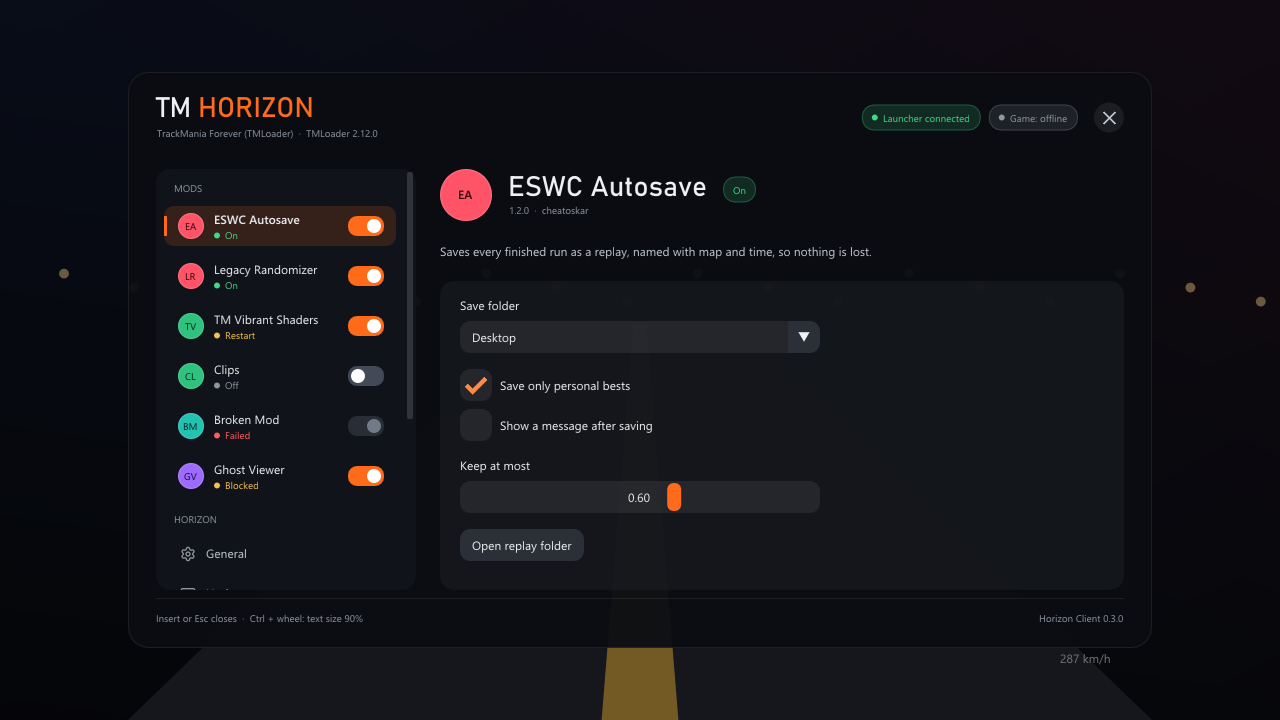
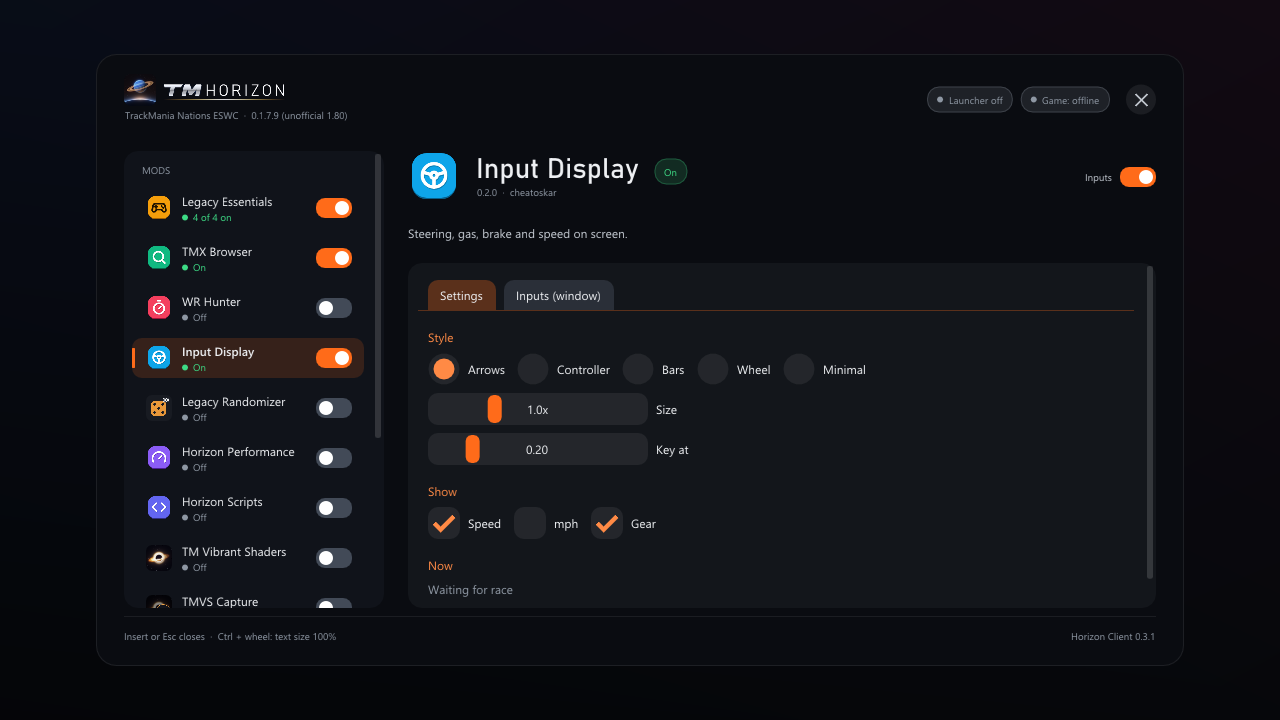
README: screenshots of 0.3.1
Replace the 0.3.0 menu renders (placeholder mods, letter icons) with renders of the real 0.3.1 module list
on a new ESWC install, with the module icons, and add the Input Display styles. client_preview gets a
--readme option that renders exactly these images (tests unchanged by default).

Claude-Session: https://claude.ai/code/session_01KM4cBWQ7dw4ib256DxFodT

diff --git a/plugins/client-common/tests/client_preview.cpp b/plugins/client-common/tests/client_preview.cpp
@@ -6,7 +6,9 @@
 // Also the modules in their own window (top bar, left click on the icon) with the top bar shown, at 640x480 and
 // 1920x1080: screens\client-popout-<tag>-<module>-<size>.png (<tag> = second argument, default "now").
 //
-//   client_preview.exe <build\plugins folder> [tag]
+//   client_preview.exe <build\plugins folder> [tag] [--readme]
+// --readme: only the README images (new ESWC install, real module list and icons): screens\client-readme-menu-*.png and
+// screens\client-input-display.png. The Legacy Randomizer and TMVS icons are read from build\readme-icons\<id>.png.
 #include <windows.h>
 
 #include <d3d9.h>
@@ -626,6 +628,132 @@ void tmxBrowser(const std::string& dir) {
     p.shutdown();
 }
 
+// ---------------------------------------------------------------- README images
+
+// A PNG file as a texture (WIC decode), 0 when it cannot be read.
+uint64_t pngTexture(const std::string& path, float* aspect = nullptr) {
+    const std::wstring w(path.begin(), path.end());
+    IWICImagingFactory* fac = nullptr;
+    if (FAILED(CoCreateInstance(CLSID_WICImagingFactory, nullptr, CLSCTX_INPROC_SERVER, IID_PPV_ARGS(&fac)))) return 0;
+    IWICBitmapDecoder* dec = nullptr;
+    IWICBitmapFrameDecode* frame = nullptr;
+    IWICFormatConverter* conv = nullptr;
+    uint64_t tex = 0;
+    if (SUCCEEDED(fac->CreateDecoderFromFilename(w.c_str(), nullptr, GENERIC_READ, WICDecodeMetadataCacheOnLoad, &dec)) &&
+        SUCCEEDED(dec->GetFrame(0, &frame)) && SUCCEEDED(fac->CreateFormatConverter(&conv)) &&
+        SUCCEEDED(conv->Initialize(frame, GUID_WICPixelFormat32bppRGBA, WICBitmapDitherTypeNone, nullptr, 0.0, WICBitmapPaletteTypeCustom))) {
+        UINT iw = 0, ih = 0;
+        conv->GetSize(&iw, &ih);
+        std::vector<BYTE> px(static_cast<size_t>(iw) * ih * 4);
+        if (SUCCEEDED(conv->CopyPixels(nullptr, iw * 4, static_cast<UINT>(px.size()), px.data()))) {
+            tex = createTexture(nullptr, iw, ih, px.data());
+            if (aspect && ih) *aspect = static_cast<float>(iw) / static_cast<float>(ih);
+        }
+    }
+    if (conv) conv->Release();
+    if (frame) frame->Release();
+    if (dec) dec->Release();
+    fac->Release();
+    if (!tex) std::printf("icon not loaded: %s\n", path.c_str());
+    return tex;
+}
+
+// The module list as a new ESWC install shows it (0.3.1): the real modules with their plugin.json names and
+// versions and their icon.png, the defaults from packaging\modules.json (Legacy Essentials and TMX Browser on,
+// the rest off). The Legacy Randomizer and the TM Vibrant Shaders modules are separate downloads: their icons
+// are copied to build\readme-icons\<id>.png before the run, their names and versions are those of their releases
+// (Legacy Randomizer 0.2.0, TMVS modules 2.0.0; TMVS Packs is Forever only and not listed on ESWC).
+Model readmeModel() {
+    Model m = baseModel("TrackMania Nations ESWC");
+    m.hostVersion = "0.3.1";
+    m.exeVersion = "0.1.7.9 (unofficial 1.80)";
+    m.gameState = "Main menu";
+    m.bridgePaired = false;
+    m.bridgeText = "";
+    m.onlineFix = 1;
+    m.menuKeySuggestions = {"Insert", "F2", "#", "+", "Ctrl+Tab"};
+    auto mod = [&](const char* id, const char* name, const char* ver, const char* desc, bool on, bool menu) {
+        PluginView p = view(id, name, desc);
+        p.version = ver;
+        p.enabled = on;
+        p.status = on ? PluginStatus::On : PluginStatus::Off;
+        p.hasMenu = menu;
+        return p;
+    };
+    // the group's members (hidden in the list, shown as the group's tabs)
+    m.plugins.push_back(mod("eswc-autosave", "Autosave & Login-Fix", "2.1.0", "Saves your replay after each finish.", true, true));
+    m.plugins.push_back(mod("controller-hotplug", "Controller fix", "1.2.1", "Adds controllers plugged in while the game runs.", true, true));
+    m.plugins.push_back(mod("game-settings", "Game settings", "1.1.1", "Volume, music and window mode from the menu.", true, true));
+    GroupView g;
+    g.id = "legacy-essentials";
+    g.name = "Legacy Essentials";
+    g.description = "Autosave, controller fix, login fix and game settings for ESWC, Sunrise and Original.";
+    g.enabled = true;
+    auto feat = [&](const char* pluginId, const char* host, const char* label) {
+        GroupFeatureView f;
+        f.pluginId = pluginId;
+        f.hostFeature = host;
+        f.label = label;
+        f.enabled = true;
+        g.features.push_back(f);
+    };
+    feat("eswc-autosave", "", "Autosave");
+    feat("controller-hotplug", "", "Controller fix");
+    feat("", "login-fix", "Login fix");
+    feat("game-settings", "", "Game settings");
+    m.groups.push_back(g);
+    m.plugins.push_back(mod("tmx-browser", "TMX Browser", "0.2.2", "Search TMX and play maps in the game.", true, true));
+    m.plugins.push_back(mod("wr-hunter", "WR Hunter", "0.1.2", "Splits against your PB and the TMX record.", false, true));
+    PluginView inp = mod("input-display", "Input Display", "0.2.0", "Steering, gas, brake and speed on screen.", true, true);
+    inp.panels = {tab("inputs", "Inputs", true)};
+    inp.panels[0].hud = true;
+    inp.panels[0].onScreen = true;
+    m.plugins.push_back(inp);
+    m.plugins.push_back(mod("legacy-randomizer", "Legacy Randomizer", "0.2.0", "Random Map Challenge in game", false, true));
+    m.plugins.push_back(mod("performance", "Horizon Performance", "0.1.0", "Frame times, benchmark and frame limiter.", false, true));
+    m.plugins.push_back(mod("scripts", "Horizon Scripts", "0.2.1", "Runs scripts from horizon\\scripts.", false, true));
+    m.plugins.push_back(mod("tmvs", "TM Vibrant Shaders", "2.0.0", "Light, shadows, sky, weather and colour, with presets per map type.", false, true));
+    m.plugins.push_back(mod("tmvs-capture", "TMVS Capture", "2.0.0", "Photos, instant clips of your runs and checkpoints, and the video export.", false, true));
+    m.plugins.push_back(mod("tmvs-upscaling", "TMVS Upscaling", "2.0.0", "Renders the game at a lower resolution and scales it back up with AMD FSR 1.", false, true));
+    return m;
+}
+
+void readmeIcons() {
+    float aspect = 1.0f;
+    const uint64_t wordmark = pngTexture("assets\\wordmark.png", &aspect);
+    setLogo(wordmark, aspect, pngTexture("assets\\mark.png"));
+    setIcon("group:legacy-essentials", pngTexture("packaging\\icons\\legacy-essentials.png"));
+    for (const char* id : {"tmx-browser", "wr-hunter", "input-display", "performance", "scripts"})
+        setIcon(id, pngTexture(std::string("plugins\\") + id + "\\icon.png"));
+    for (const char* id : {"legacy-randomizer", "tmvs", "tmvs-capture", "tmvs-upscaling"})
+        setIcon(id, pngTexture(std::string("build\\readme-icons\\") + id + ".png"));
+}
+
+// docs\images\menu-1280x720.png (Input Display page) and menu-640x480.png (the module list), ESWC, new install.
+void readme(const std::string& dir) {
+    Plugin p = load(dir, "input-display");
+    if (!p.mod || !p.hook) return;
+    startHost(HORIZON_GAME_ESWC, "input-display");
+    chost::buildWorld(false, "UidOfTheTestMap000000000aB", L"Test");
+    chost::gameState = HORIZON_STATE_MAIN_MENU;
+    const HorizonHostApi api = hostApi();
+    if (p.init(&api) != 0) {
+        ++g_failed;
+        return;
+    }
+    readmeIcons();
+    Actions a = actionsFor(p);
+    a.setGroupEnabled = [](const std::string&, bool) {};
+    const Model m = readmeModel();
+    const int menuPct = m.menuSizePct;
+    setDisplay(1280, 720, fitScale(1.0f, 1280.0f, 720.0f, menuPct));
+    menuShot("readme-menu-1280x720", m, a, "plugin:input-display", 20, nullptr);
+    setDisplay(640, 480, fitScale(1.0f, 640.0f, 480.0f, menuPct));
+    menuShot("readme-menu-640x480", m, a, "mods", 20, nullptr);
+    setDisplay(kWidth, kHeight, 1.0f);
+    p.shutdown();
+}
+
 // ---------------------------------------------------------------- toasts and the General page
 
 void toasts() {
@@ -671,6 +799,7 @@ int main(int argc, char** argv) {
     }
     const std::string dir = argv[1];
     if (argc > 2) g_tag = argv[2];
+    const bool readmeMode = argc > 3 && std::strcmp(argv[3], "--readme") == 0; // only the README images
     CoInitializeEx(nullptr, COINIT_APARTMENTTHREADED);
     WNDCLASSEXW wc = {sizeof(wc), CS_CLASSDC, wndProc, 0, 0, GetModuleHandleW(nullptr), nullptr, nullptr, nullptr, nullptr, L"CkPreview", nullptr};
     RegisterClassExW(&wc);
@@ -706,10 +835,15 @@ int main(int argc, char** argv) {
     ImGui_ImplDX9_Init(g_dev);
     CreateDirectoryW(L"screens", nullptr);
 
-    wrHunter(dir);
-    inputDisplay(dir);
-    tmxBrowser(dir);
-    toasts();
+    if (readmeMode) {
+        readme(dir);
+        inputDisplay(dir); // also screens\client-input-display.png
+    } else {
+        wrHunter(dir);
+        inputDisplay(dir);
+        tmxBrowser(dir);
+        toasts();
+    }
 
     ImGui_ImplDX9_Shutdown();
     ImGui_ImplWin32_Shutdown();

diff --git a/README.md b/README.md
@@ -6,9 +6,15 @@ Version 0.3.1. MIT licence. Built with [Claude Code](https://claude.com/claude-c
 
 ![The menu at 1280x720](docs/images/menu-1280x720.png)
 
-*The menu, rendered by `tests/ui_preview.cpp` with sample data (no game running). In a small window (here 640x480) it shrinks and shows the list or the page:*
+*The menu on a new TrackMania Nations ESWC install, Input Display open. Preview render with the real module list, no game running.*
 
 ![The menu at 640x480](docs/images/menu-640x480.png)
+
+*In a small window (here 640x480) the menu shrinks and shows the list or the page.*
+
+![The Input Display styles](docs/images/input-display.png)
+
+*Input Display: Bars, Arrows, Wheel, Minimal and Controller, on screen in a race (top) and with the menu open (bottom). Preview render on a stand-in picture, not a game capture.*
 
 ## Supported exes
 
